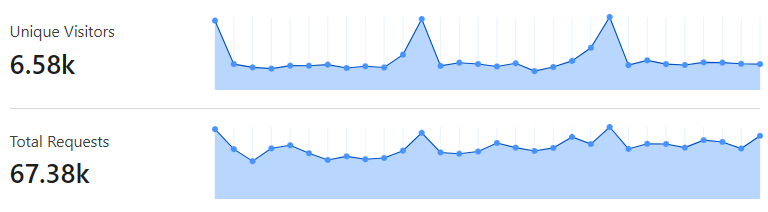
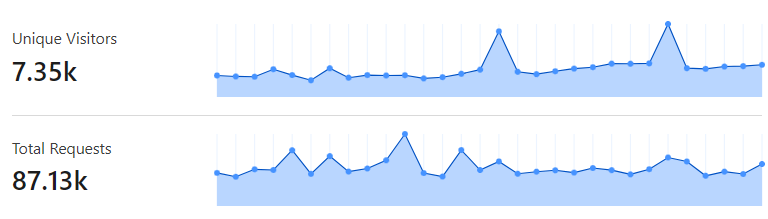
updated traffic image

diff --git a/donate.html b/donate.html
@@ -97,7 +97,7 @@
          </div>
 
          <p class="my-4 h4">Overview Stats and Traffic</p>
-         Website has an average traffic of over 6500 unique visitors last month.
+         Website has an average traffic of over 7000 unique visitors last month.
          <img src="img/traffic-stats.png" class="img-fluid rounded mt-3" width="768" height="212" title="Website Traffic"
             alt="Cloudflare Website Traffic">
 
